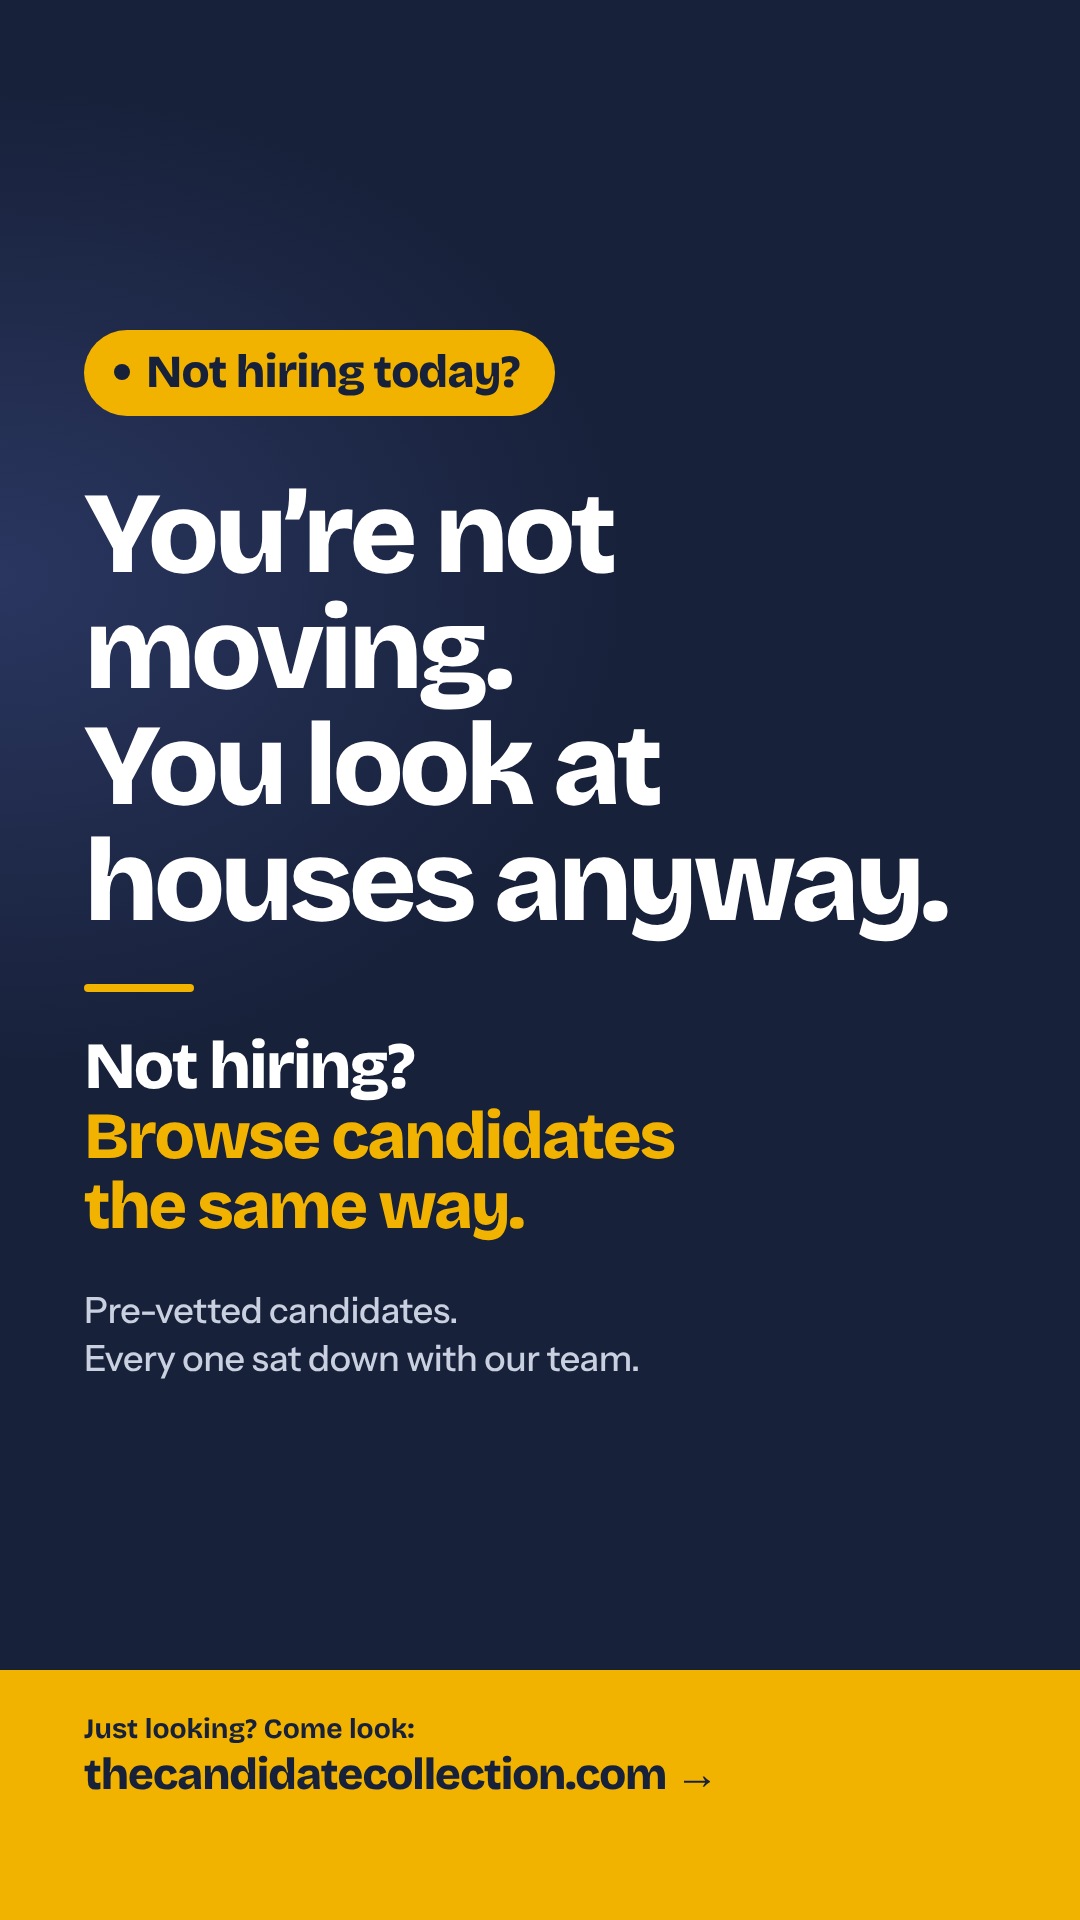
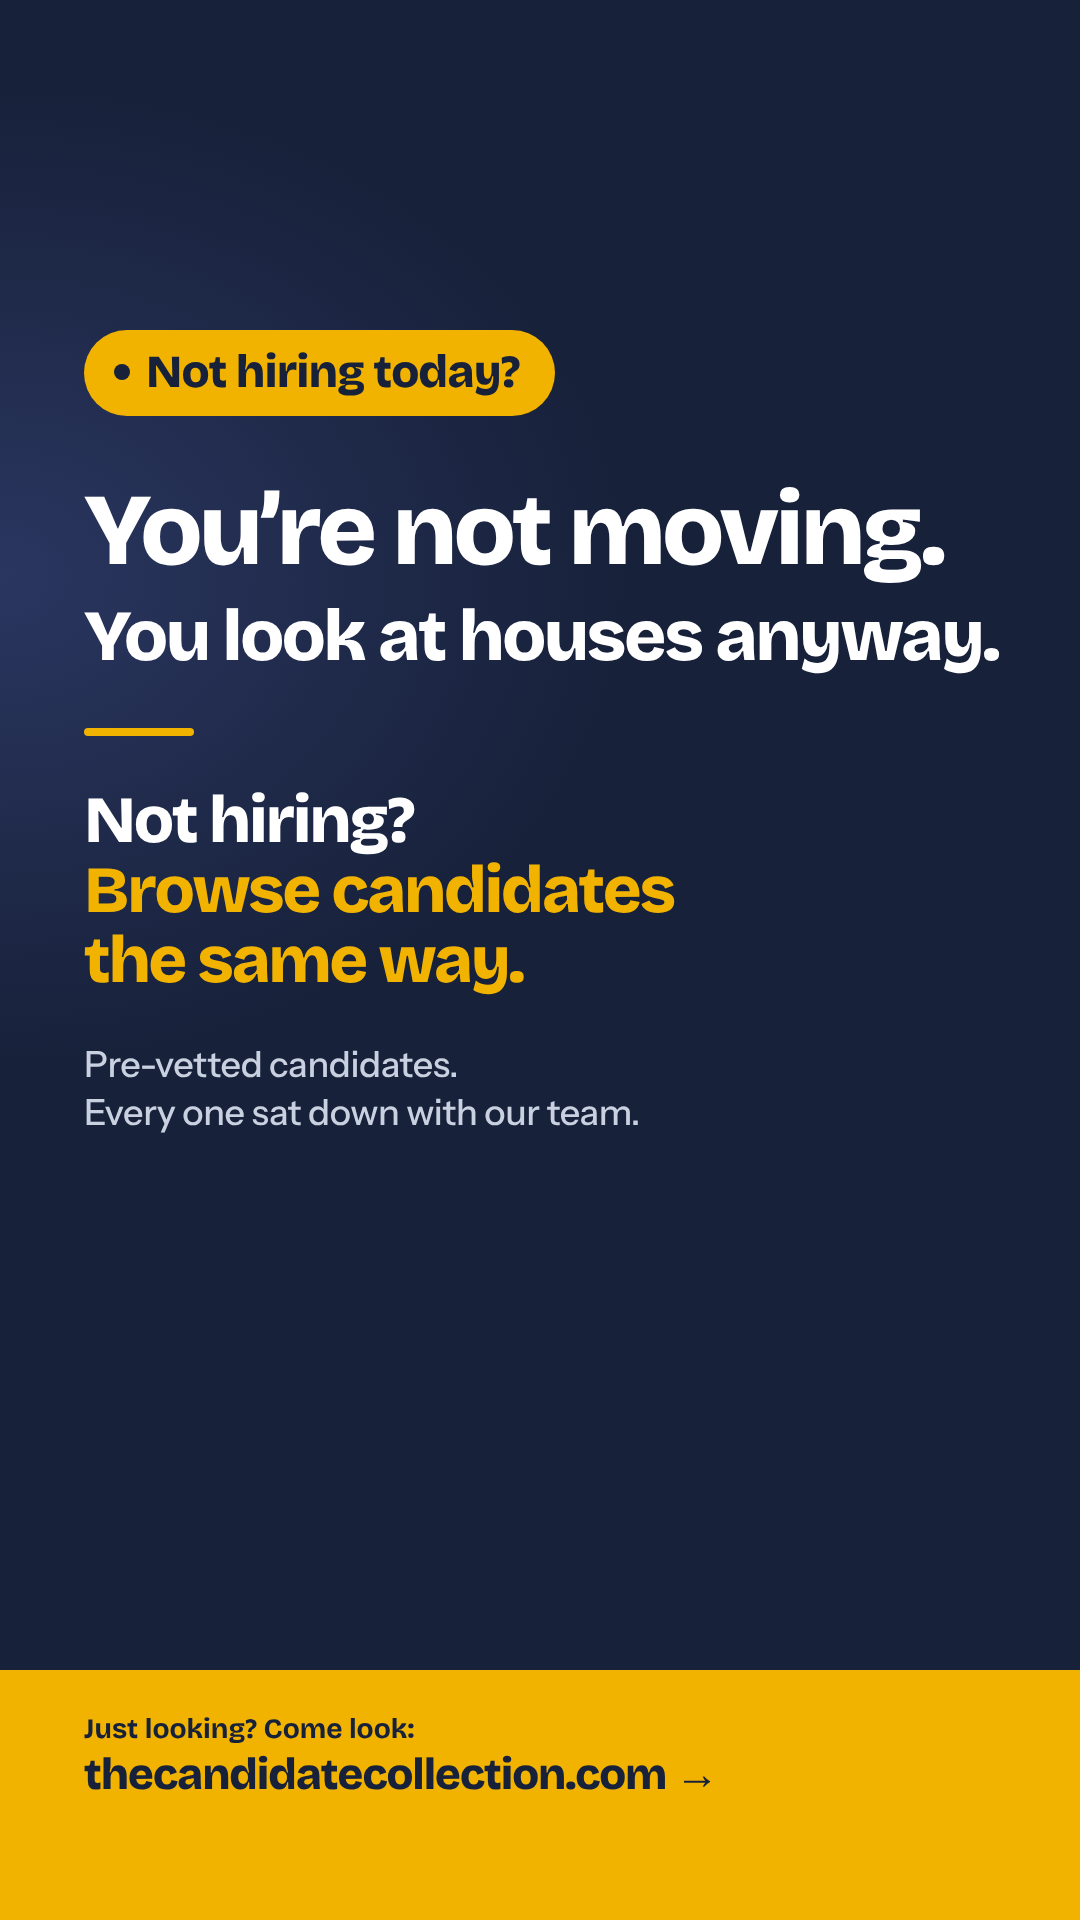
Poster sizing
Claude-Session: https://claude.ai/code/session_01EZeEyNzeQFPN4DFsUvzuMe

Changed region(s): [[0.0611, 0.25, 0.9167, 0.7188]]

diff --git a/design/posters/browse-anyway.html b/design/posters/browse-anyway.html
@@ -19,8 +19,8 @@ h2 span{color:#f2b300;display:block}.bar{width:110px;height:8px;border-radius:4p
 .card .t{margin-top:26px;font-family:B;font-weight:800;font-size:25px;color:#3f7d4e;letter-spacing:.02em}
 </style><body class="p"><div class="in">
 <span class="pill"><i></i>Not hiring today?</span>
-<h1 style="font-size:116px;margin-top:60px">You&rsquo;re not moving.<br>You look at<br>houses anyway.</h1>
-<div class="bar" style="margin:44px 0 40px"></div>
+<h1 style="font-size:102px;margin-top:64px">You&rsquo;re not moving.<span style="display:block;font-size:72px;margin-top:18px;white-space:nowrap;letter-spacing:-.035em">You look at houses anyway.</span></h1>
+<div class="bar" style="margin:56px 0 50px"></div>
 <h2 style="font-size:66px;color:#fff">Not hiring? <span>Browse candidates<br>the same way.</span></h2>
 <p class="s" style="font-size:36px;margin-top:44px">Pre-vetted candidates.<br>Every one sat down with our team.</p>
 </div>
